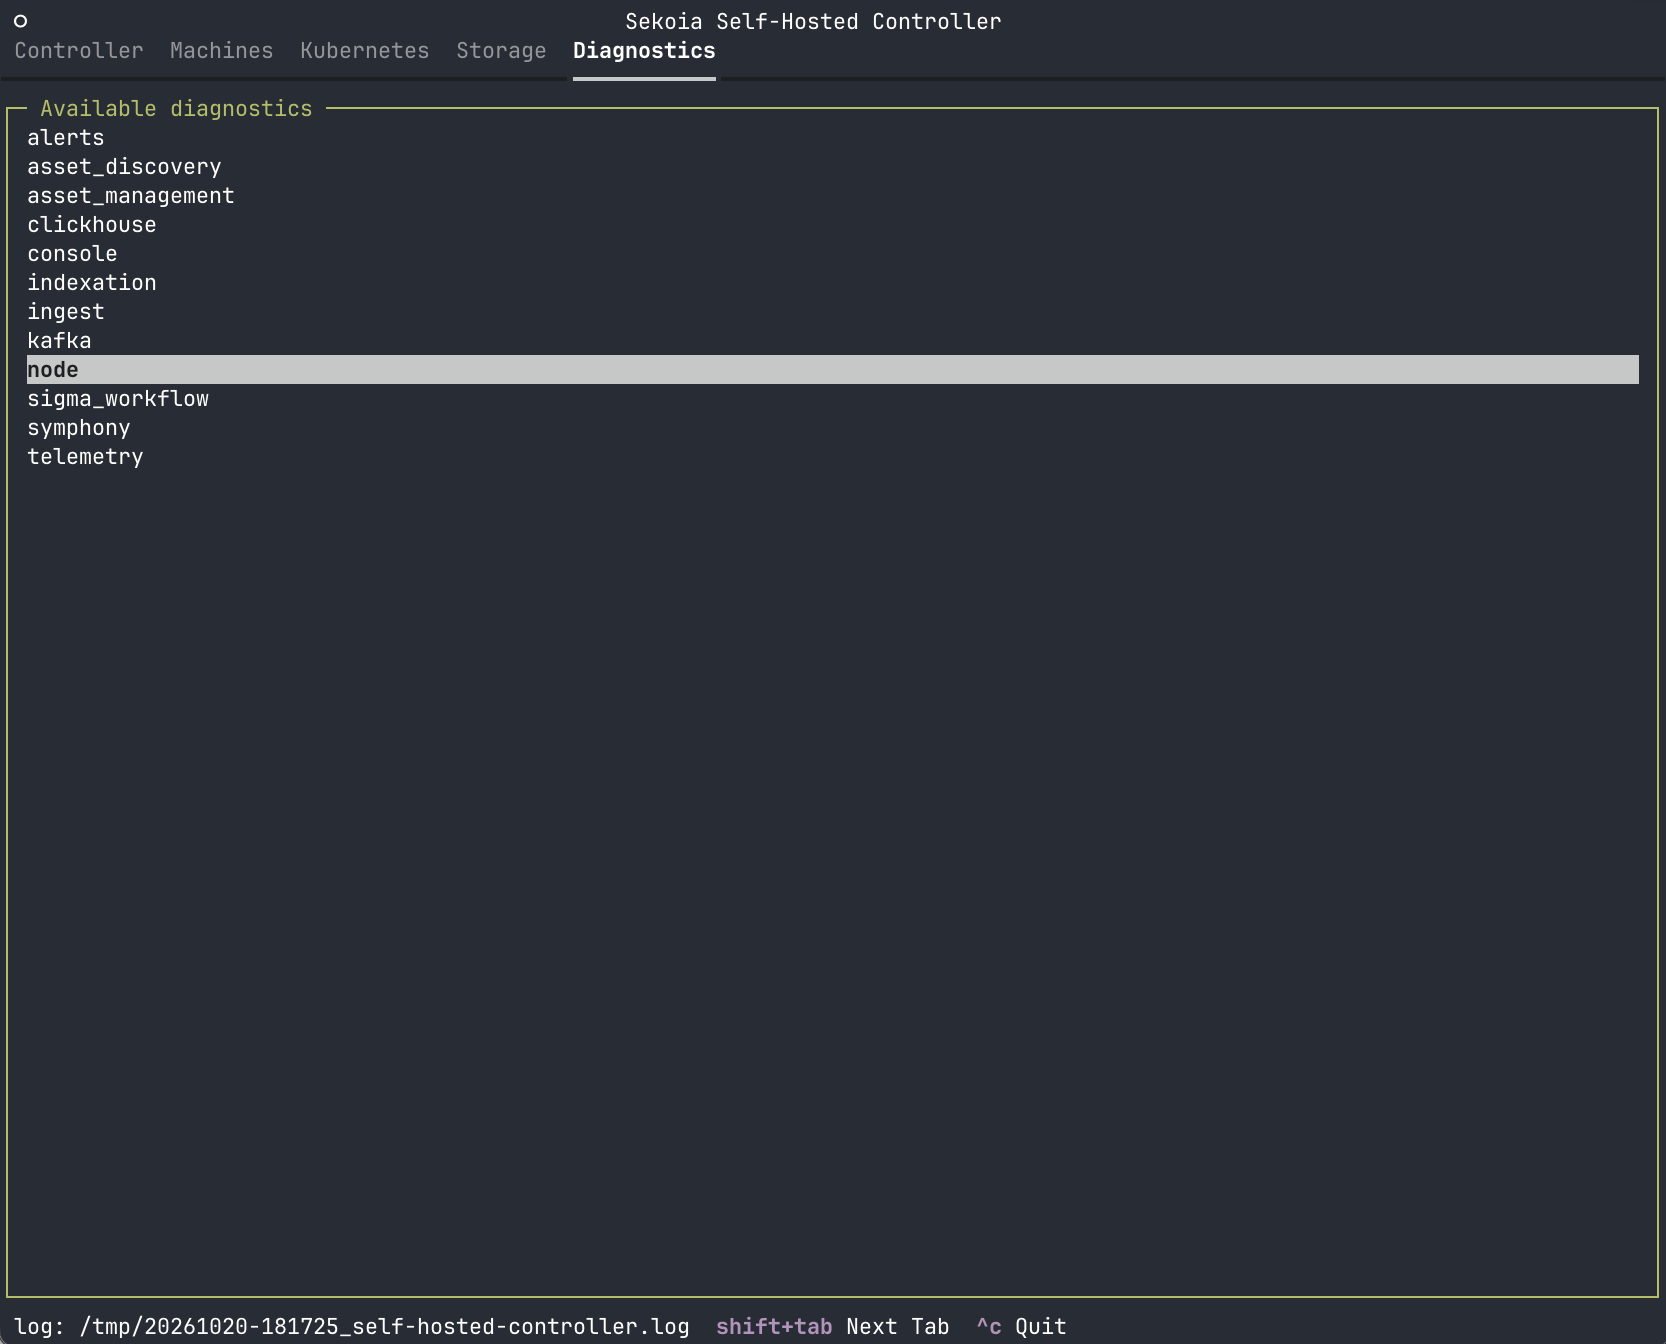
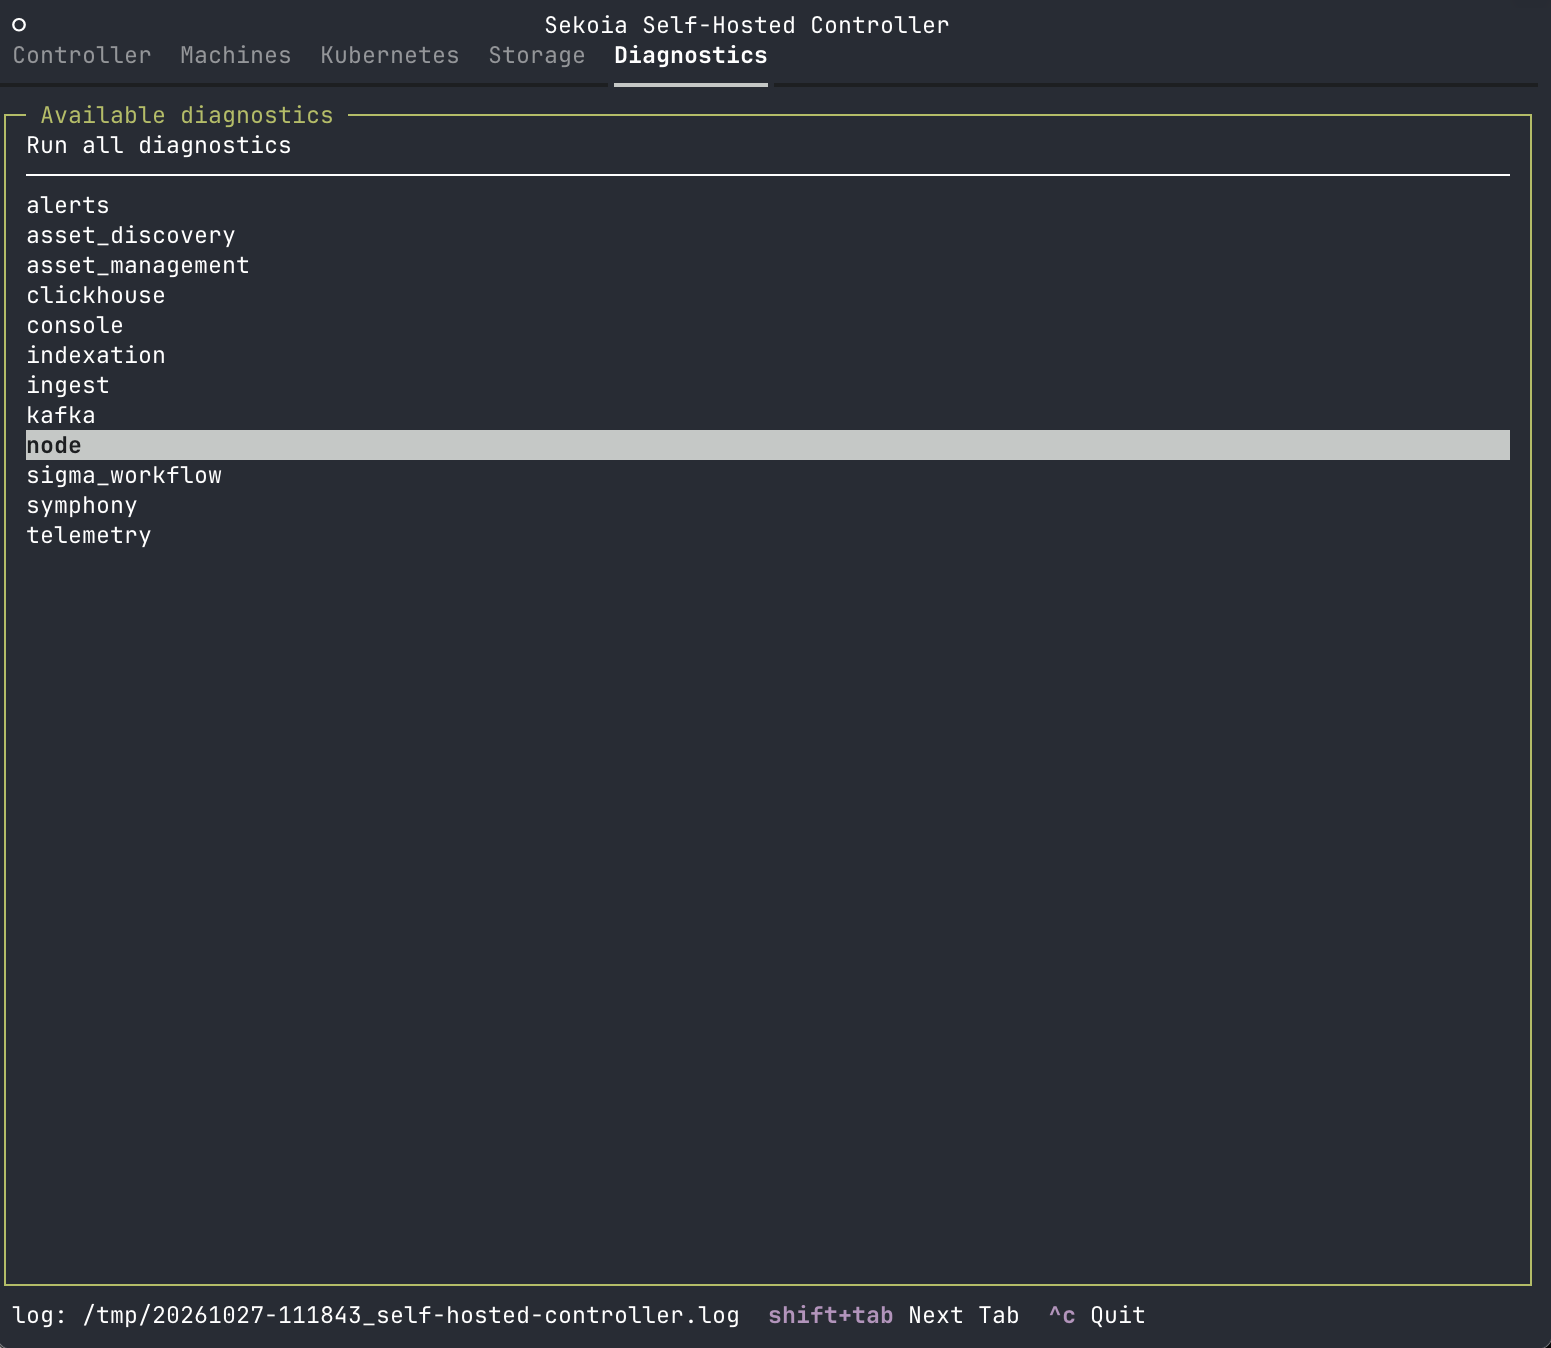
docs(sh-1.0.1): add Run all Diagnostics

Changed region(s): [[0.0, 0.0, 1.0, 1.0]]

diff --git a/docs/self_hosted/1.0.1/operations/controller_interface.md b/docs/self_hosted/1.0.1/operations/controller_interface.md
@@ -130,7 +130,7 @@ Start with **Ceph status**. A healthy cluster reports `HEALTH_OK`. If it reports
 
 ## Run a diagnostic from the Diagnostics tab
 
-The Diagnostics tab lists the diagnostic targets available on the SHC, one per rule file.
+The Diagnostics tab lists the diagnostic targets available on the SHC, one per rule file. The first entry of the list, **Run all diagnostics**, is separated from the targets and runs every target in one result view.
 
 To run a target:
 
@@ -149,10 +149,23 @@ A completed panel holds a results table with the measured values and their label
 
 To return to the target list, press `Escape`.
 
+### Run all diagnostic targets
+
+To check every platform area in one run:
+
+1. Select the tab with `Shift+Tab` until **Diagnostics** is active.
+2. Select **Run all diagnostics** at the start of the **Available diagnostics** list and press `Enter`.
+
+The interface opens a result view titled `Diagnostic: all`. It runs the targets one after the other in alphabetical order, like the `Diagnostic` module of the CLI, and evaluates their rules one at a time. Each panel title starts with the name of its target, and a divider separates the panels of two targets. The copied report keeps these prefixes, so you can tell which target each rule belongs to.
+
+![The result view of all diagnostics.](/assets/self_hosted/1.0.1/diagnostic/result_all.png){: style="max-width:100%"}
+
+When a rule file of a target fails to load, the interface shows a `Failed to load <target>` error notification, skips that target, and runs the remaining ones.
+
 !!! note "No diagnostics listed"
     When the tab reports that no diagnostics were found, the rule files are missing from the SHC image. Verify the image reference you set in `DOCKER_IMAGE`, then contact Sekoia support with the path shown in the warning.
 
-When you escalate a diagnostic result, copy the full report and attach the timestamped SHC log shown at the bottom of the TUI. Include the target name and the time at which you ran it. Before you share them, redact the credentials, tokens, private hostnames, and customer data that the report or the log contain.
+When you escalate a diagnostic result, copy the full report and attach the timestamped SHC log shown at the bottom of the TUI. Include the target name, or state that you ran all diagnostics, and the time at which you ran it. Before you share them, redact the credentials, tokens, private hostnames, and customer data that the report or the log contain.
 
 ## Result
 

diff --git a/docs/self_hosted/1.0.1/release_notes.md b/docs/self_hosted/1.0.1/release_notes.md
@@ -7,7 +7,7 @@ Sekoia Self-Hosted 1.0.1 is the first generally available release of Sekoia Self
 
 ## What's in 1.0.1
 
-**Self-hosted-controller (SHC).** One orchestration tool, run as a Docker container on the orchestration node, installs, configures, diagnoses, and resets the platform. You use it as a one-shot CLI or through its terminal interface, which shows a progress bar while it downloads the release files, pushes the images, and installs the platform, and a Diagnostics tab that runs a target rule by rule with live status. See [Use the SHC interface](/self_hosted/1.0.1/operations/controller_interface.md).
+**Self-hosted-controller (SHC).** One orchestration tool, run as a Docker container on the orchestration node, installs, configures, diagnoses, and resets the platform. You use it as a one-shot CLI or through its terminal interface, which shows a progress bar while it downloads the release files, pushes the images, and installs the platform, and a Diagnostics tab that runs one target, or all of them, rule by rule with live status. See [Use the SHC interface](/self_hosted/1.0.1/operations/controller_interface.md).
 
 **Air-gapped deployment.** You can deploy and operate the platform in restricted or fully disconnected environments, with no external connectivity. The SHC then uses the files extracted from the release archive and makes no request to the Sekoia release bucket. See [Deploy the platform](/self_hosted/1.0.1/deployment/deployment_guide.md).
 

diff --git a/docs/self_hosted/1.0.1/monitoring/run_diagnostics.md b/docs/self_hosted/1.0.1/monitoring/run_diagnostics.md
@@ -106,7 +106,7 @@ Change the `utils.prometheus.port_forward` keys only with guidance from Sekoia: 
 
 ## Run a diagnostic from the SHC interface
 
-The interactive interface of the self-hosted-controller (SHC) exposes the same targets on its Diagnostics tab, with one collapsible panel per rule, live status, sortable result tables, and clipboard copy. See [Run a diagnostic from the Diagnostics tab](/self_hosted/1.0.1/operations/controller_interface.md#run-a-diagnostic-from-the-diagnostics-tab).
+The interactive interface of the self-hosted-controller (SHC) exposes the same targets on its Diagnostics tab, with one collapsible panel per rule, live status, sortable result tables, and clipboard copy. You run one target at a time, or select **Run all diagnostics** to run every target in a single result view. See [Run a diagnostic from the Diagnostics tab](/self_hosted/1.0.1/operations/controller_interface.md#run-a-diagnostic-from-the-diagnostics-tab).
 
 ## Result
 
